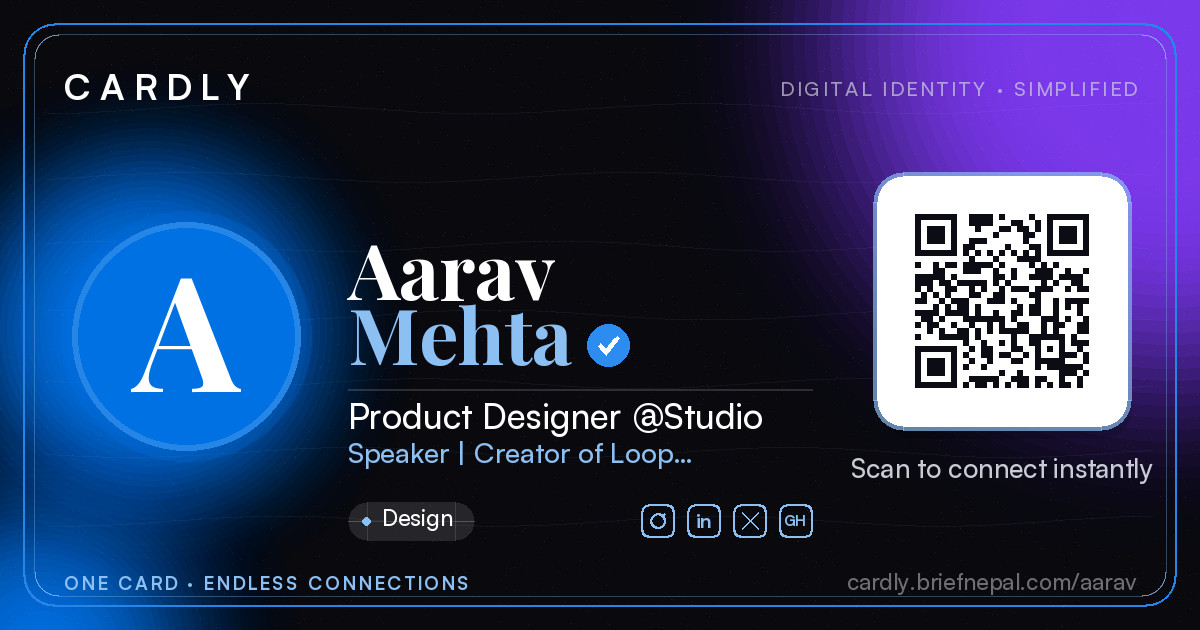
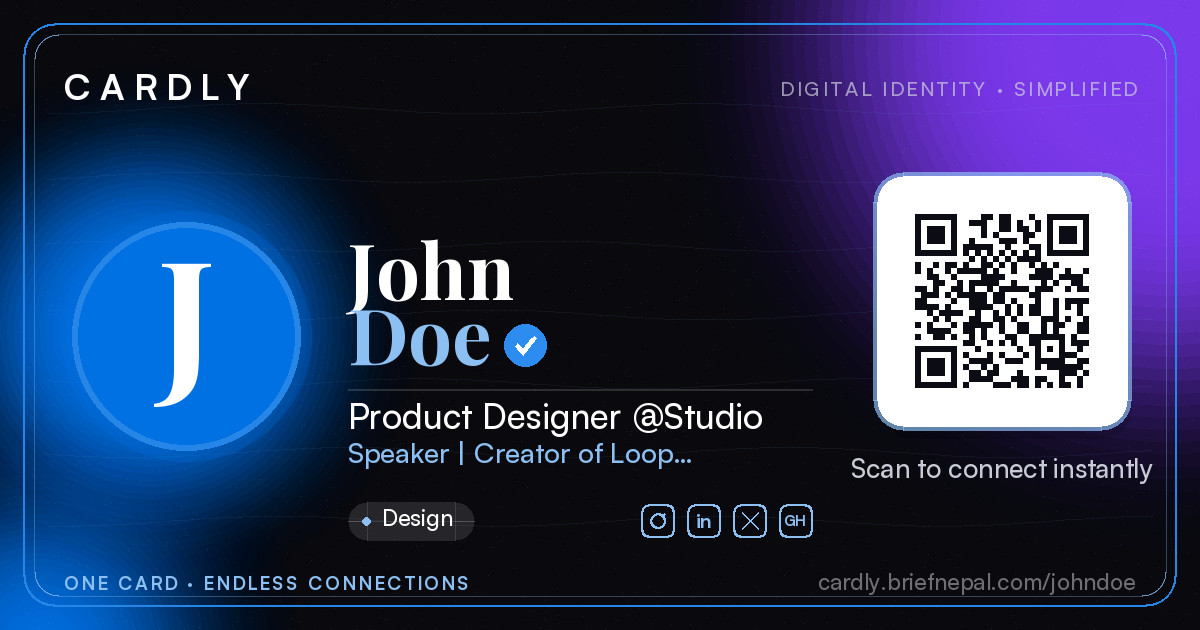
Cardly landing: hero demo card name → John Doe

diff --git a/config.php b/config.php
@@ -24,7 +24,7 @@ if (is_file(__DIR__ . '/config.local.php')) {
 /* -------------------------------------------------------------------------
  * Environment
  * ---------------------------------------------------------------------- */
-define('OMNITOOLS_VERSION', '1.17.3');
+define('OMNITOOLS_VERSION', '1.17.4');
 
 // Toggle to false on production to hide detailed PHP errors.
 if (!defined('DEBUG_MODE')) define('DEBUG_MODE', false);
